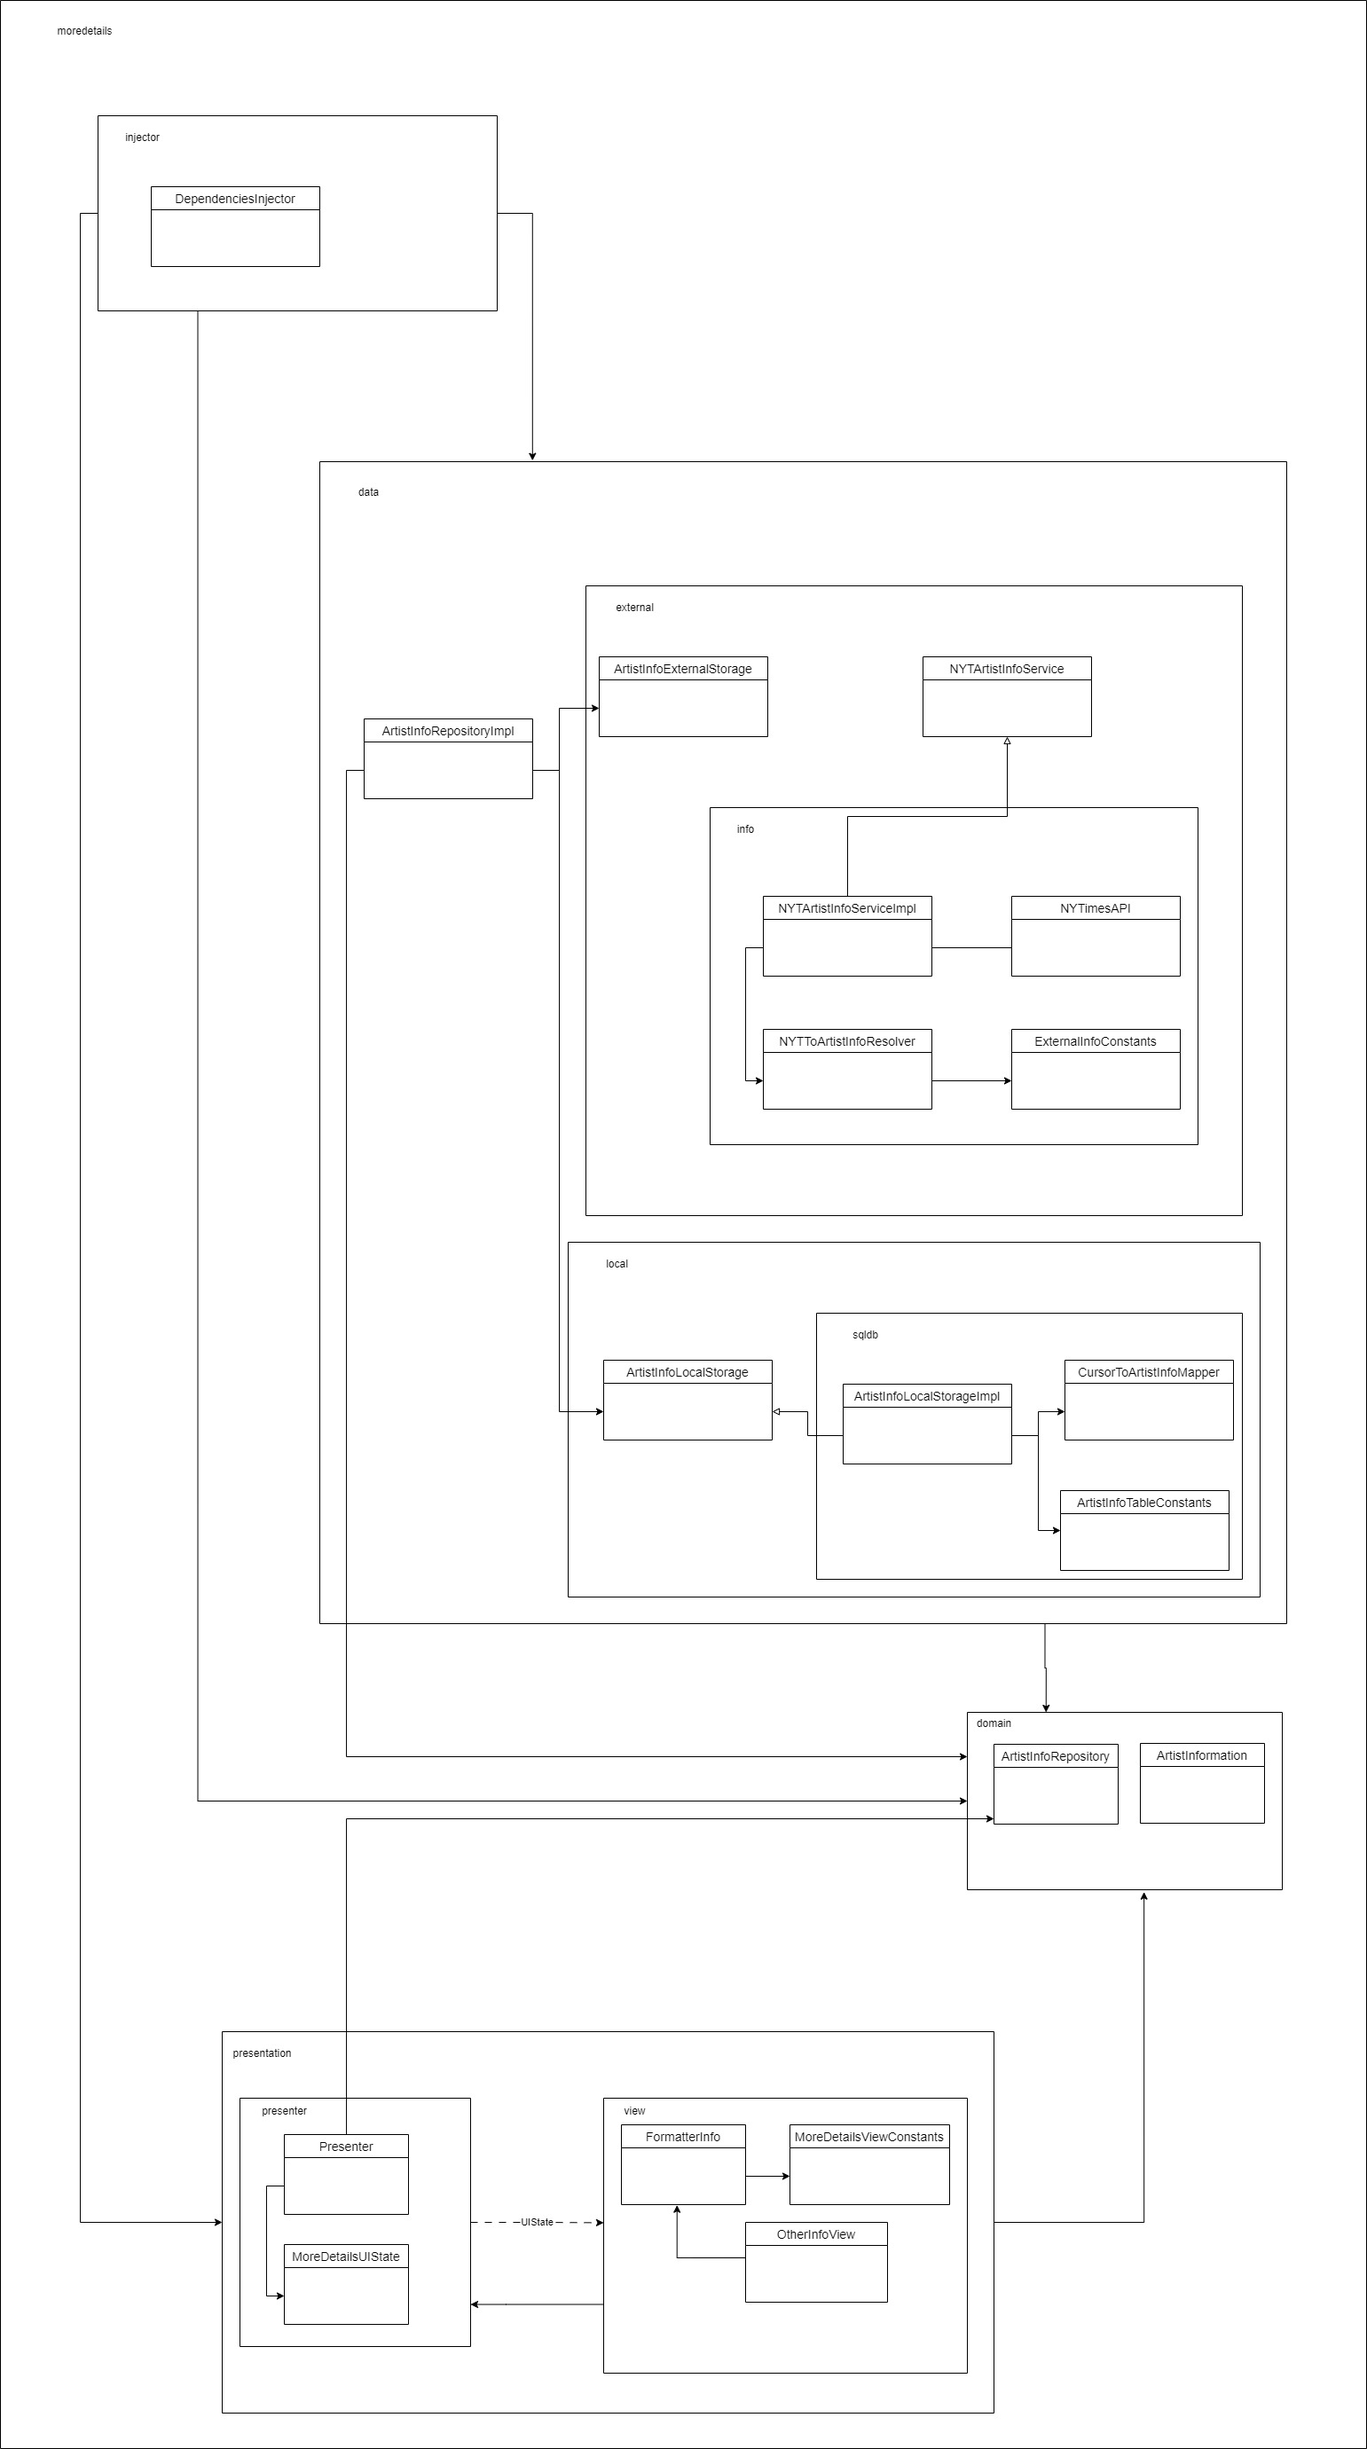
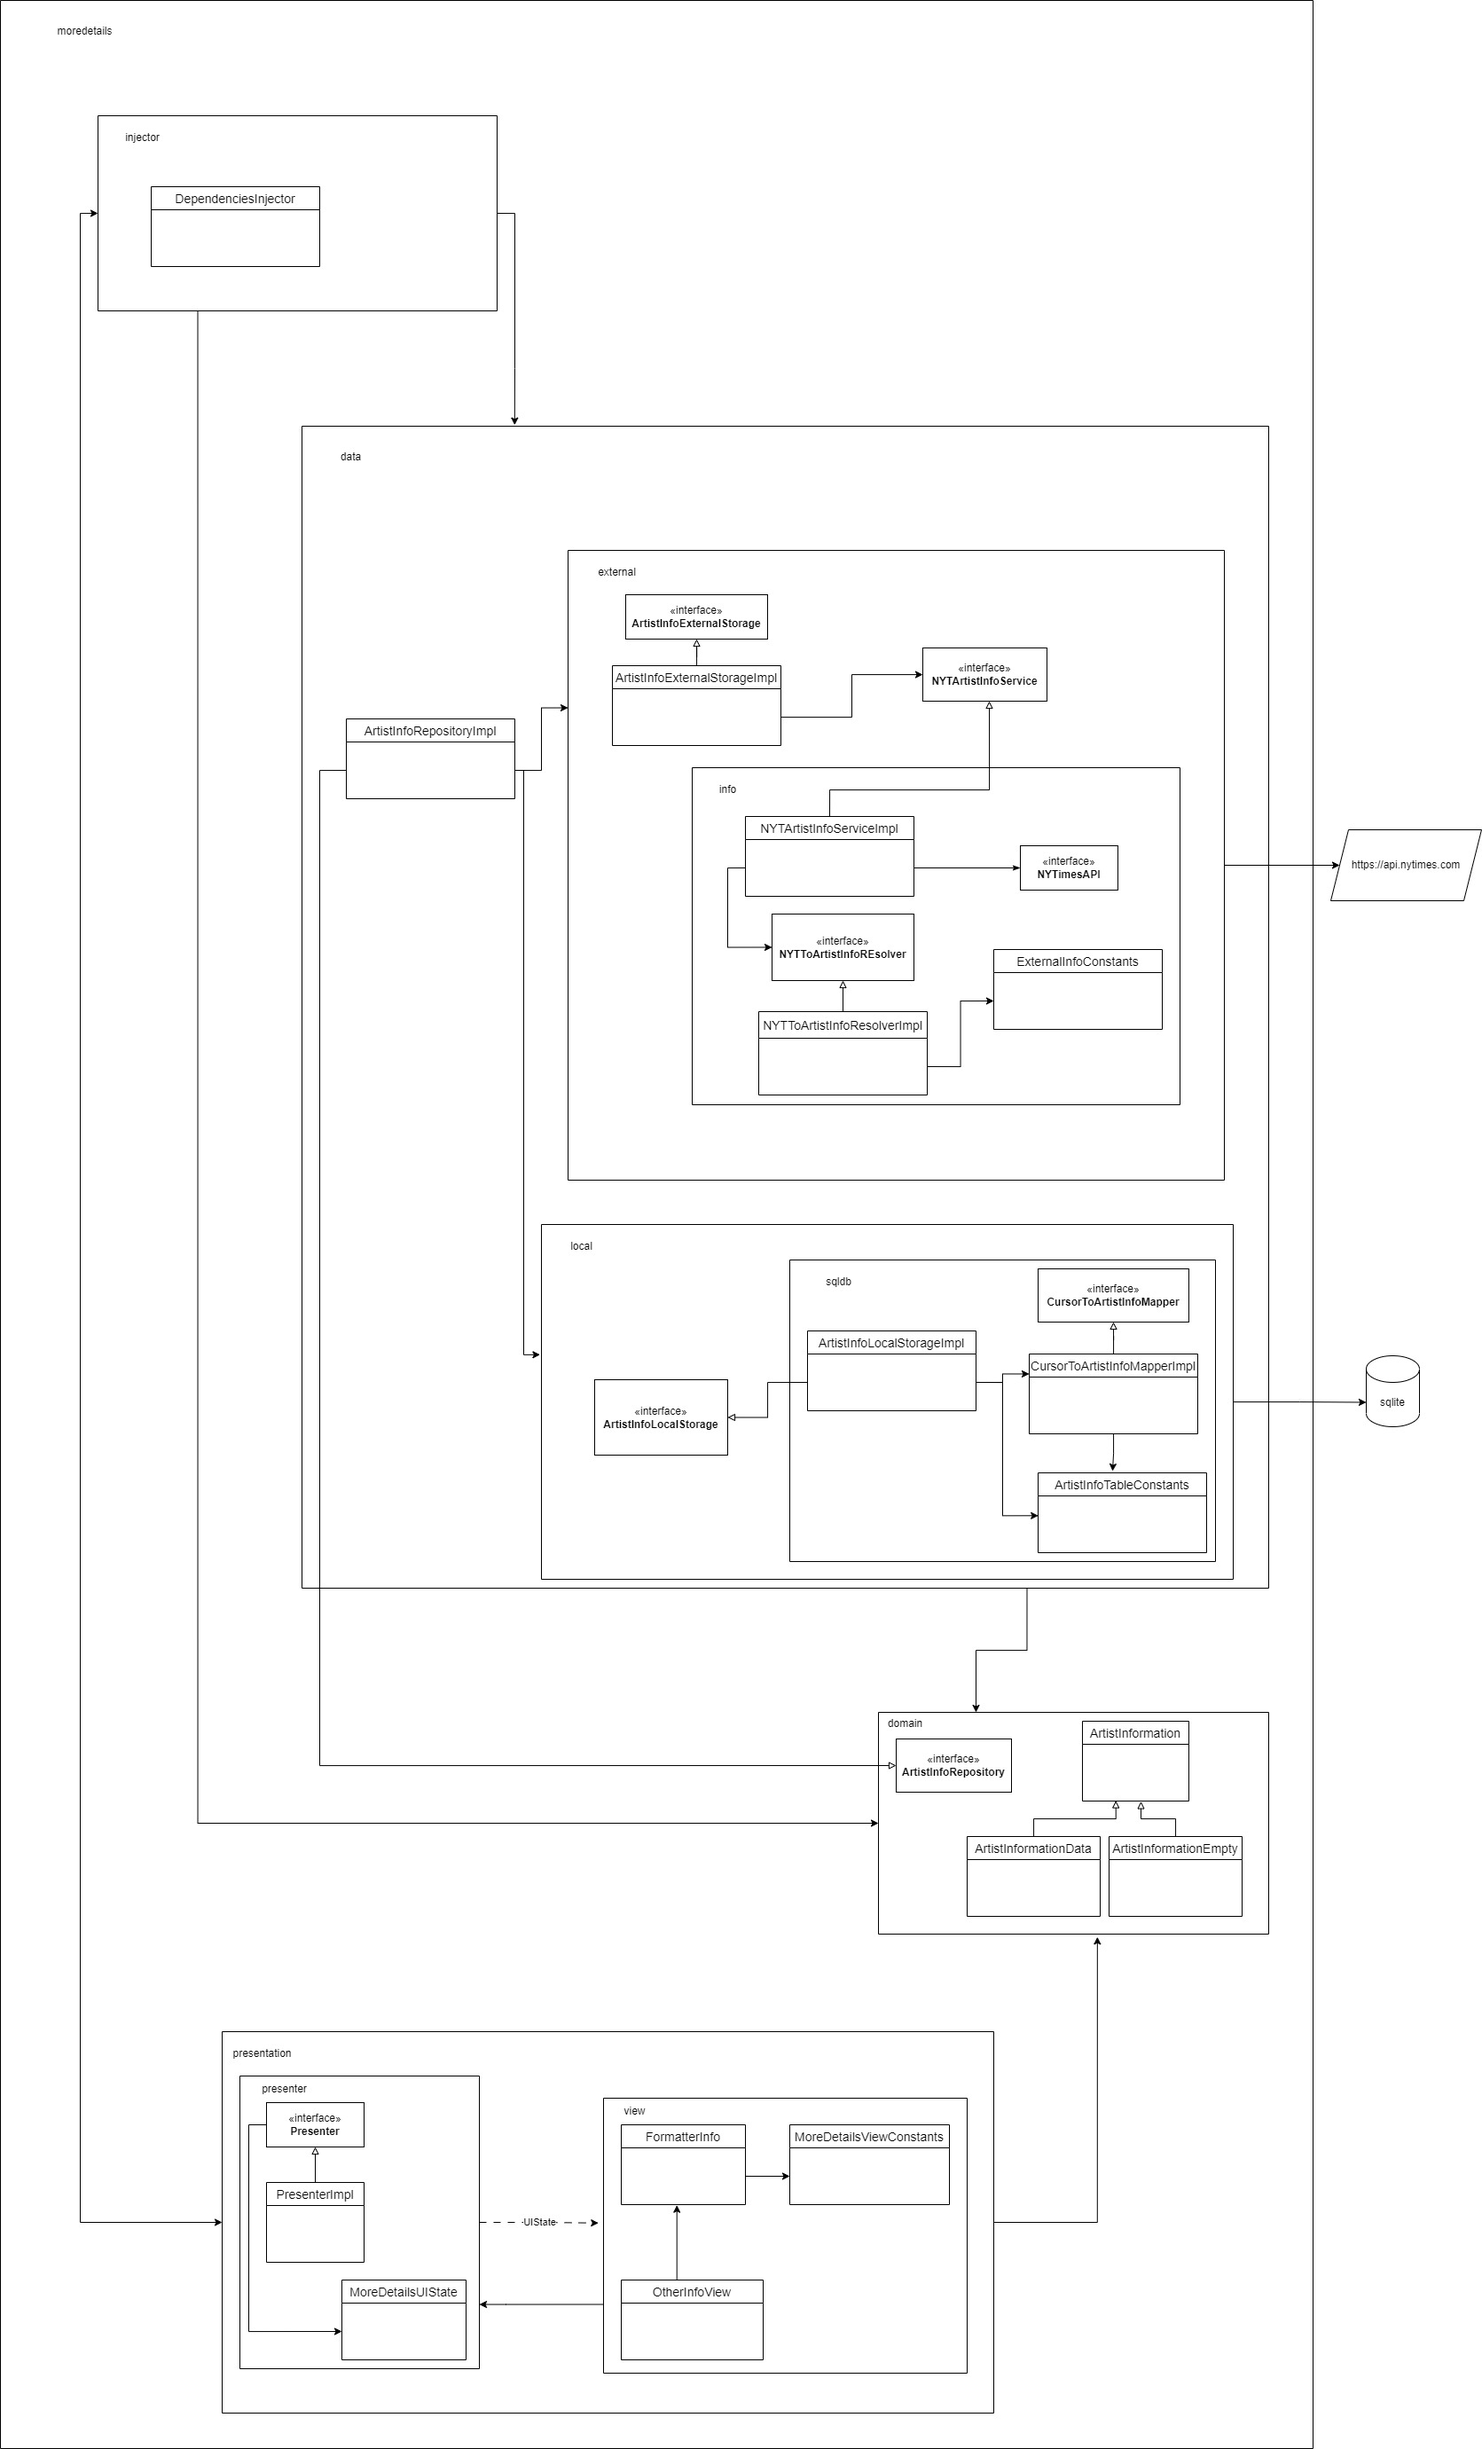
Correccion de PR y actualizacion de diagrama moreDetails

diff --git a/app/src/main/java/ayds/newyork/songinfo/moredetails/presentation/view/OtherInfoView.kt b/app/src/main/java/ayds/newyork/songinfo/moredetails/presentation/view/OtherInfoView.kt
@@ -13,16 +13,21 @@ import ayds.newyork.songinfo.utils.UtilsInjector
 import ayds.newyork.songinfo.utils.view.ImageLoader
 import ayds.newyork.songinfo.moredetails.presentation.presenter.Presenter
 import ayds.newyork.songinfo.moredetails.injector.DependenciesInjector
+import ayds.newyork.songinfo.moredetails.presentation.presenter.MoreDetailsUIState
+import ayds.observer.Observer
 
-private lateinit var presenter: Presenter
-
-class OtherInfoViewActivity(private val formatterInfo: FormatterInfo) : AppCompatActivity(){
-
+class OtherInfoViewActivity(private val formatterInfo: FormatterInfo) : AppCompatActivity() {
+    private lateinit var presenter: Presenter
     private lateinit var moreDetailsTextPanel: TextView
     private lateinit var imageView: ImageView
     private lateinit var openButton: Button
     private val imageLoader: ImageLoader = UtilsInjector.imageLoader
     private var artistName: String? = null
+
+    private val observer: Observer<MoreDetailsUIState> =
+        Observer { value ->
+            updateMoreDetailsView(value)
+        }
 
     override fun onCreate(savedInstanceState: Bundle?) {
         super.onCreate(savedInstanceState)
@@ -31,12 +36,17 @@ class OtherInfoViewActivity(private val formatterInfo: FormatterInfo) : AppCompa
         initProperties()
         loadImage()
         initArtistName()
+        subscribeUiState()
         getArtistInfo()
     }
 
     private fun initModule() {
         DependenciesInjector.init(this)
         presenter = DependenciesInjector.getPresenter()
+    }
+
+    private fun subscribeUiState() {
+        presenter.uiStateObservable.subscribe(observer)
     }
 
     private fun initProperties() {
@@ -55,42 +65,32 @@ class OtherInfoViewActivity(private val formatterInfo: FormatterInfo) : AppCompa
         artistName = intent.getStringExtra(presenter.uiState.artistNameExtra)
     }
 
-    private fun getArtistInfo() = Thread {
+    private fun getArtistInfo() {
         artistName?.let { name ->
             presenter.getArtistInfo(name)
-            updateListeners()
-        }
-    }.start()
-
-    private fun updateListeners() {
-        var url = presenter.uiState.url
-        var abstract = presenter.uiState.abstract
-        var isLocalStored = presenter.uiState.isLocallyStored
-        var artistName = presenter.uiState.artistName
-
-        if (url != null)
-            setListener(url)
-        if (abstract != null) {
-            updateMoreDetailsTextPanel(artistName, abstract, isLocalStored)
         }
     }
 
-    private fun setListener(urlString: String) {
+    private fun updateMoreDetailsView(uiState: MoreDetailsUIState) {
+        updateMoreDetailsTextPanel(uiState.artistName, uiState.abstract, uiState.isLocallyStored)
+        updateUrl(uiState.url)
+    }
+
+    private fun updateUrl(urlString: String?) {
         openButton.setOnClickListener {
             openURL(urlString)
         }
     }
 
-    private fun openURL(urlString: String) {
+    private fun openURL(urlString: String?) {
         val intent = Intent(Intent.ACTION_VIEW)
         intent.data = Uri.parse(urlString)
         startActivity(intent)
     }
 
-
     private fun updateMoreDetailsTextPanel(
         artistName: String,
-        abstract: String,
+        abstract: String?,
         isLocalStored: Boolean
     ) {
         runOnUiThread {
@@ -105,9 +105,9 @@ class OtherInfoViewActivity(private val formatterInfo: FormatterInfo) : AppCompa
         }
     }
 
-    companion object{
+    companion object {
         fun getArtistNameExtra(): String {
-            return presenter.uiState.artistNameExtra
+            return DependenciesInjector.getPresenter().uiState.artistNameExtra
         }
     }
 }

diff --git a/app/src/main/java/ayds/newyork/songinfo/moredetails/presentation/presenter/Presenter.kt b/app/src/main/java/ayds/newyork/songinfo/moredetails/presentation/presenter/Presenter.kt
@@ -2,29 +2,31 @@ package ayds.newyork.songinfo.moredetails.presentation.presenter
 
 import ayds.newyork.songinfo.moredetails.domain.ArtistInfoRepository
 import ayds.newyork.songinfo.moredetails.domain.ArtistInformation
+import ayds.observer.Subject
+import ayds.observer.Observable
 
 interface Presenter {
-
+    val uiStateObservable: Observable<MoreDetailsUIState>
     var uiState: MoreDetailsUIState
-
     fun getArtistInfo(artistName: String)
-
 }
 
 internal class PresenterImpl(private val artistInfoRepository: ArtistInfoRepository) : Presenter {
-
+    private val onUIStateSubject = Subject<MoreDetailsUIState>()
+    override val uiStateObservable = onUIStateSubject
     override var uiState: MoreDetailsUIState = MoreDetailsUIState()
 
-    override fun getArtistInfo(artistName: String) {
+    override fun getArtistInfo(artistName: String) = Thread {
         var artistInfo = artistInfoRepository.getArtistInfoByTerm(artistName)
         updateUiState(artistInfo)
-    }
+    }.start()
 
     private fun updateUiState(artistInfo: ArtistInformation?) {
         when (artistInfo) {
             is ArtistInformation.ArtistInformationData -> updateArtistInfoUiState(artistInfo)
             ArtistInformation.ArtistInformationEmpty -> updateNoResultsUiState()
         }
+        uiStateObservable.notify(uiState)
     }
 
     private fun updateArtistInfoUiState(artistInfoData: ArtistInformation.ArtistInformationData) {
@@ -44,6 +46,4 @@ internal class PresenterImpl(private val artistInfoRepository: ArtistInfoReposit
             isLocallyStored = false
         )
     }
-
-
 }

diff --git a/app/src/main/java/ayds/newyork/songinfo/moredetails/injector/DependenciesInjector.kt b/app/src/main/java/ayds/newyork/songinfo/moredetails/injector/DependenciesInjector.kt
@@ -16,16 +16,12 @@ import ayds.newyork.songinfo.moredetails.presentation.view.OtherInfoViewActivity
 import retrofit2.Retrofit
 import retrofit2.converter.scalars.ScalarsConverterFactory
 
-
 object DependenciesInjector {
-
     private lateinit var presenter: Presenter
     private const val NYTIMES_URL = "https://api.nytimes.com/svc/search/v2/"
-
-    val otherInfo : OtherInfoViewActivity = OtherInfoViewActivity(formatterInfo = FormatterInfo())
+    val otherInfo: OtherInfoViewActivity = OtherInfoViewActivity(formatterInfo = FormatterInfo(""))
 
     fun init(otherInfoView: OtherInfoViewActivity) {
-
         val artistInfoLocalStorage = ArtistInfoLocalStorageImpl(
             otherInfoView as Context,
             cursorToArtistInfoMapper = CursorToArtistInfoMapperImpl()
@@ -41,9 +37,7 @@ object DependenciesInjector {
         val artistInfoRepository: ArtistInfoRepository =
             ArtistInfoRepositoryImpl(artistInfoLocalStorage, artistInfoExternalStorage)
         presenter = PresenterImpl(artistInfoRepository)
-
     }
 
     fun getPresenter(): Presenter = presenter
 }
-

diff --git a/app/src/main/java/ayds/newyork/songinfo/moredetails/presentation/presenter/MoreDetailsUIState.kt b/app/src/main/java/ayds/newyork/songinfo/moredetails/presentation/presenter/MoreDetailsUIState.kt
@@ -2,9 +2,9 @@ package ayds.newyork.songinfo.moredetails.presentation.presenter
 
 data class MoreDetailsUIState(
     val artistName: String = "",
-    val artistNameExtra: String = "artistName",
-    val imageURL: String ="https://encrypted-tbn0.gstatic.com/images?q=tbn:ANd9GcRVioI832nuYIXqzySD8cOXRZEcdlAj3KfxA62UEC4FhrHVe0f7oZXp3_mSFG7nIcUKhg&usqp=CAU",
     val url: String? = "",
     val abstract: String? = "",
-    val isLocallyStored: Boolean = false
-)
+    val isLocallyStored: Boolean = false,
+    val artistNameExtra: String = "artistName",
+    val imageURL: String ="https://encrypted-tbn0.gstatic.com/images?q=tbn:ANd9GcRVioI832nuYIXqzySD8cOXRZEcdlAj3KfxA62UEC4FhrHVe0f7oZXp3_mSFG7nIcUKhg&usqp=CAU"
+    )

diff --git a/app/src/main/java/ayds/newyork/songinfo/moredetails/domain/ArtistInformation.kt b/app/src/main/java/ayds/newyork/songinfo/moredetails/domain/ArtistInformation.kt
@@ -1,9 +1,7 @@
 package ayds.newyork.songinfo.moredetails.domain
 
 sealed class ArtistInformation {
-
     data class ArtistInformationData (
-
         val artistName: String,
         var abstract: String?,
         val url: String?,
@@ -11,5 +9,4 @@ sealed class ArtistInformation {
     ) : ArtistInformation()
 
     object ArtistInformationEmpty : ArtistInformation()
-
 }

diff --git a/app/src/main/java/ayds/newyork/songinfo/moredetails/presentation/view/FormatterInfo.kt b/app/src/main/java/ayds/newyork/songinfo/moredetails/presentation/view/FormatterInfo.kt
@@ -2,9 +2,7 @@ package ayds.newyork.songinfo.moredetails.presentation.view
 
 import java.util.*
 
-class FormatterInfo {
-
-    private var artistName: String = ""
+class FormatterInfo(var artistName: String) {
 
     fun buildArtistInfoAbstract(artistName: String, abstract: String?, isLocalStored: Boolean): String {
         this.artistName = artistName
